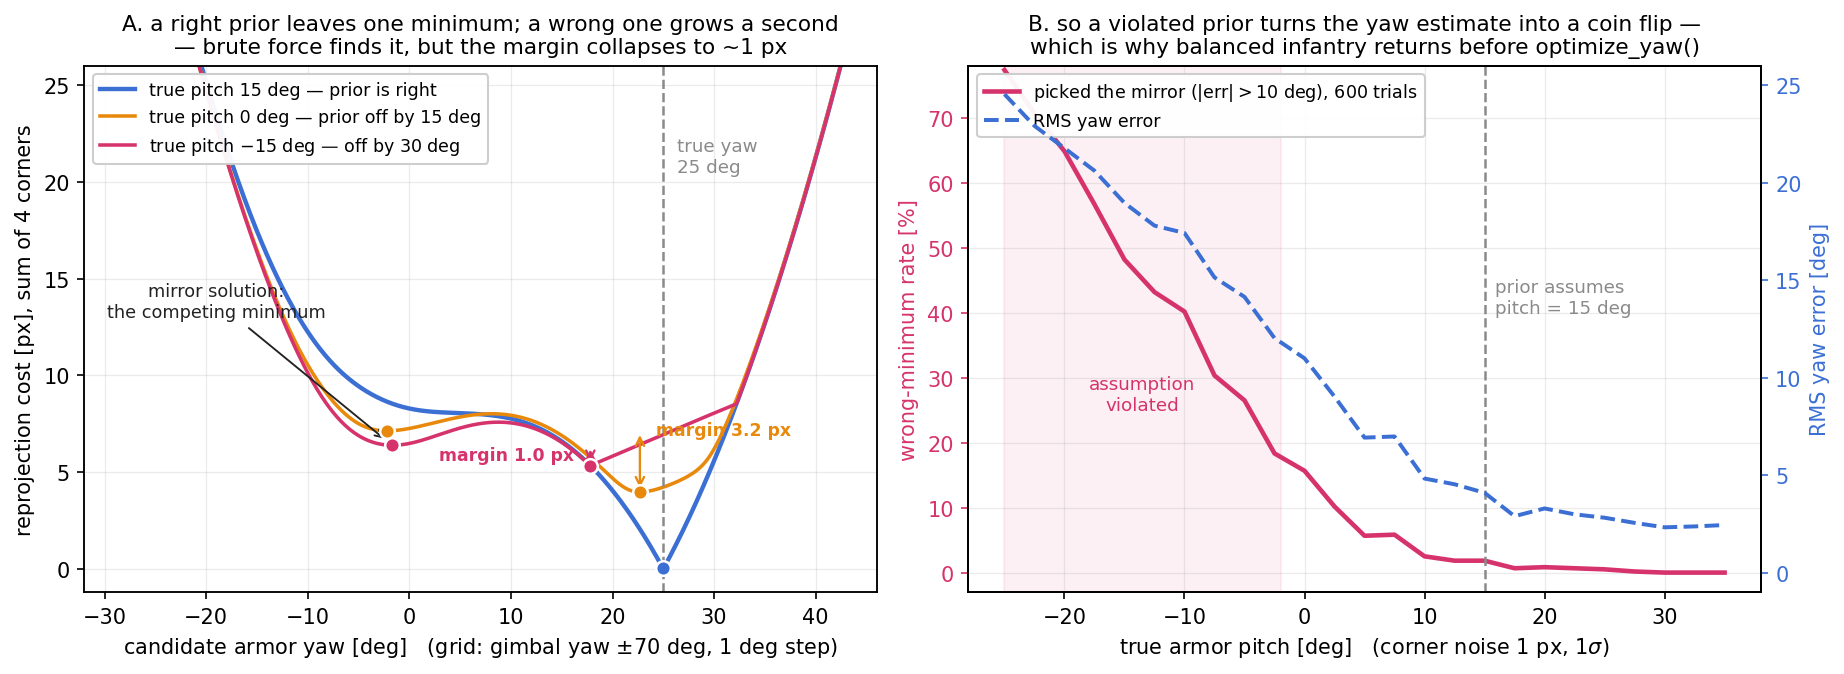
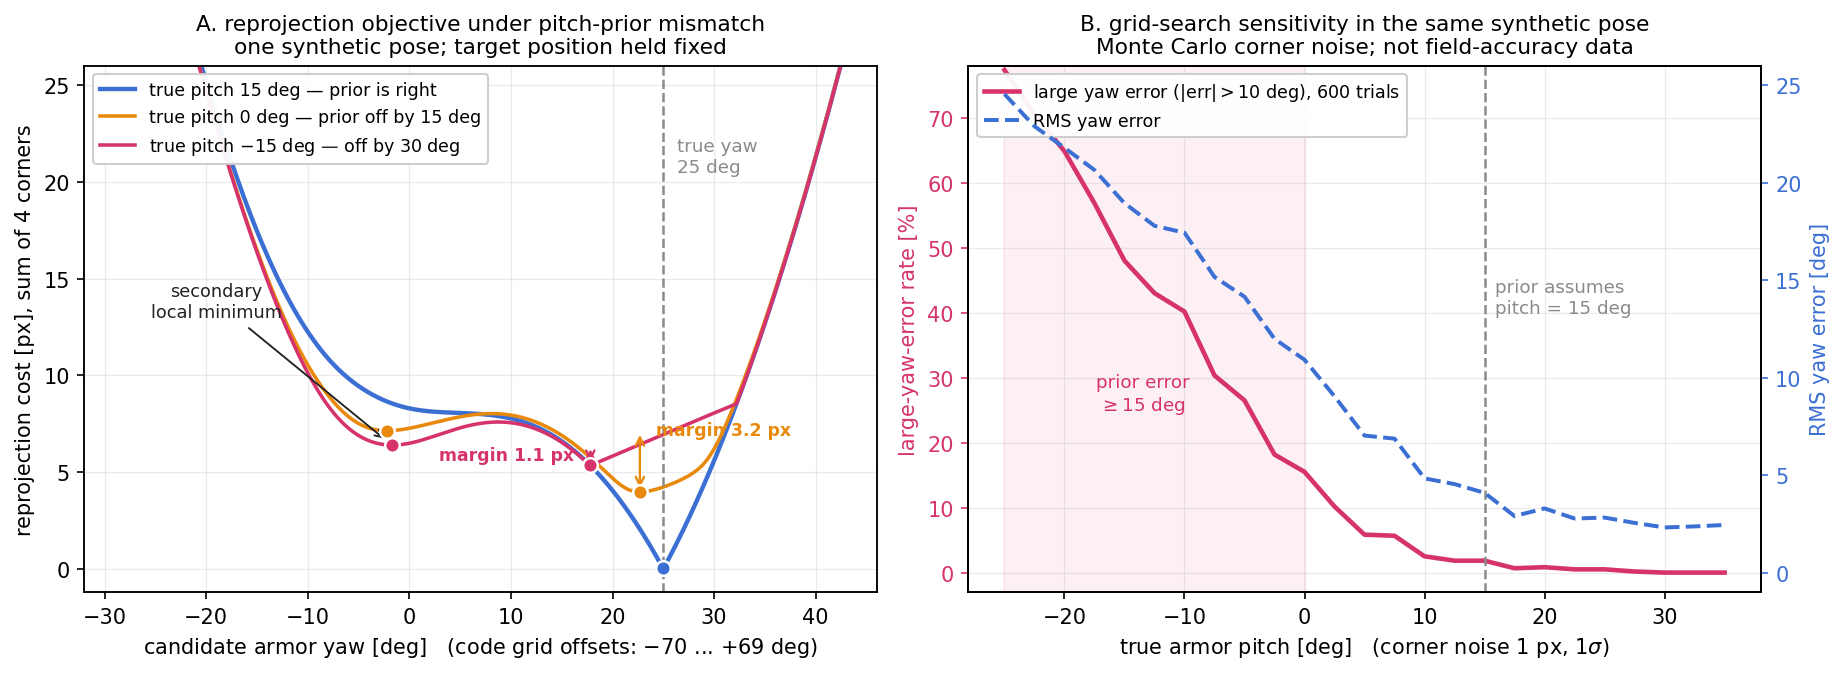
style(projects): 校准 sp_vision 源码与证据边界

diff --git a/examples/projects/proj_sp_yaw_optimize.py b/examples/projects/proj_sp_yaw_optimize.py
@@ -1,5 +1,5 @@
-# Reproduces sp_vision_25's optimize_yaw() search and measures what the code
-# comment "平衡不做yaw优化，因为pitch假设不成立" actually costs.
+# Mirrors the core grid search in sp_vision_25's optimize_yaw() for one
+# synthetic pose, then illustrates its sensitivity to a mismatched pitch prior.
 #
 # Geometry / constants are taken verbatim from the repository:
 #   tasks/auto_aim/solver.cpp:12-25   armor object points (big: 230 mm x 56 mm)
@@ -7,14 +7,13 @@
 #   tasks/auto_aim/solver.cpp:101-125 R_armor2world and the reprojection
 #   tasks/auto_aim/solver.cpp:196-218 SEARCH_RANGE = 140 deg, 1 deg step
 #   tasks/auto_aim/solver.cpp:259     cost = sum of the 4 corner L2 distances
-# Intrinsics and t_camera2gimbal come from configs/standard4.yaml.
-# R_camera2gimbal is idealised to the exact axis permutation that the calibrated
-# matrix in that YAML sits within ~2 deg of.
+# Intrinsics, distortion, and camera-to-gimbal extrinsics come from
+# configs/standard4.yaml. The target pose and corner-noise model are synthetic.
+# Position is held fixed while the yaw cost is evaluated, so this is not an
+# end-to-end reproduction of solvePnP, tracking, or field accuracy.
 #
-# Finding: with the correct pitch prior the cost has ONE minimum; as the prior
-# is violated a second, mirror-image minimum grows until the two are within a
-# pixel of each other, and corner noise starts picking the wrong one. That is
-# the quantitative content of the balanced-infantry early return.
+# In this chosen geometry, increasing pitch-prior mismatch introduces a second
+# local minimum and raises the chance of a large yaw error under corner noise.
 #
 # Generates chapters/6.Projects/images/proj-sp-yaw-optimize.png
 import cv2
@@ -23,7 +22,7 @@ import matplotlib.pyplot as plt
 import numpy as np
 
 BLUE, MAGENTA, GRAY = "#3B6FD4", "#D6336C", "#8A8A8A"
-GREEN, ORANGE, INK = "#2F9E44", "#E8890C", "#222222"
+ORANGE, INK = "#E8890C", "#222222"
 mpl.rcParams.update({"font.size": 10.0, "axes.linewidth": 0.9})
 
 DEG = np.pi / 180.0
@@ -43,7 +42,11 @@ K = np.array([[1851.7070167840545, 0, 721.12585328714192],
 DIST = np.array([-0.093662536083526302, 0.18945726820633155,
                  -0.00040424349861928674, -0.0040568403852123142, 0.0])
 
-R_CAM2GIM = np.array([[0.0, 0.0, 1.0], [-1.0, 0.0, 0.0], [0.0, -1.0, 0.0]])
+R_CAM2GIM = np.array([
+    [0.02823004230930648, -0.014076983590428133, 0.99950232778328707],
+    [-0.99954530259354468, -0.010995644138609872, 0.028076393521179785],
+    [0.010594940981141165, -0.99984045444409364, -0.014380990321749998],
+])
 T_HANDEYE = np.array([0.045517325957791413, 0.10544338092767802, 0.034649710880185793])
 
 SEARCH_RANGE = 140          # solver.cpp:200
@@ -52,8 +55,8 @@ PIX_NOISE = 1.0             # px, 1-sigma per corner coordinate
 TRIALS = 600
 YAW_TRUE = 25 * DEG
 
-# field-like pose: 4 m, 12 deg off the optical axis, 0.25 m above the gimbal,
-# gimbal itself yawed 10 deg. Deliberately NOT head-on -- see the note below.
+# Chosen synthetic pose: 4 m away, 12 deg off the optical axis, 0.25 m above
+# the gimbal, with the gimbal yawed by 10 deg.
 DIST_M, AZIM, HEIGHT, GIMBAL_YAW = 4.0, 12 * DEG, 0.25, 10 * DEG
 XYZ = np.array([DIST_M * np.cos(AZIM), DIST_M * np.sin(AZIM), HEIGHT])
 R_G2W = np.array([[np.cos(GIMBAL_YAW), -np.sin(GIMBAL_YAW), 0],
@@ -122,15 +125,15 @@ for p_deg, col, lw, lab in [(15, BLUE, 2.1, "true pitch 15 deg — prior is righ
 axA.axvline(YAW_TRUE / DEG, color=GRAY, ls="--", lw=1.2)
 axA.text(YAW_TRUE / DEG + 1.4, 20.5, "true yaw\n25 deg", color=GRAY,
          fontsize=8.8, linespacing=1.2)
-axA.annotate("mirror solution:\nthe competing minimum", xy=(-2.2, 6.6), xytext=(-19, 13.0),
+axA.annotate("secondary\nlocal minimum", xy=(-2.2, 6.6), xytext=(-19, 13.0),
              color=INK, fontsize=8.5, linespacing=1.25, ha="center",
              arrowprops=dict(arrowstyle="->", color=INK, lw=0.9))
 axA.set_ylim(-1.2, 26)
 axA.set_xlim(-32, 46)
-axA.set_xlabel("candidate armor yaw [deg]   (grid: gimbal yaw $\\pm$70 deg, 1 deg step)")
+axA.set_xlabel("candidate armor yaw [deg]   (code grid offsets: $-$70 ... +69 deg)")
 axA.set_ylabel("reprojection cost [px], sum of 4 corners")
-axA.set_title("A. a right prior leaves one minimum; a wrong one grows a second\n"
-              "— brute force finds it, but the margin collapses to ~1 px", fontsize=10.4)
+axA.set_title("A. reprojection objective under pitch-prior mismatch\n"
+              "one synthetic pose; target position held fixed", fontsize=10.4)
 axA.legend(fontsize=8.4, loc="upper left", framealpha=0.95)
 axA.grid(alpha=0.25, lw=0.6)
 
@@ -146,8 +149,8 @@ for p in pitch_scan:
     rms.append(np.sqrt(np.mean(err ** 2)))
 
 axB.plot(pitch_scan, flip, "-", color=MAGENTA, lw=2.2,
-         label=f"picked the mirror ($|$err$|>$10 deg), {TRIALS} trials")
-axB.set_ylabel("wrong-minimum rate [%]", color=MAGENTA)
+         label=f"large yaw error ($|$err$|>$10 deg), {TRIALS} trials")
+axB.set_ylabel("large-yaw-error rate [%]", color=MAGENTA)
 axB.tick_params(axis="y", colors=MAGENTA)
 axB.set_ylim(-3, 78)
 
@@ -159,12 +162,12 @@ axB2.set_ylim(-1, 26)
 
 axB.axvline(15, color=GRAY, ls="--", lw=1.2)
 axB.text(15.9, 40, "prior assumes\npitch = 15 deg", color=GRAY, fontsize=8.8, linespacing=1.2)
-axB.axvspan(-25, -2, color=MAGENTA, alpha=0.07)
-axB.text(-13.5, 25, "assumption\nviolated", color=MAGENTA, fontsize=8.8, ha="center",
+axB.axvspan(-25, 0, color=MAGENTA, alpha=0.07)
+axB.text(-13.5, 25, "prior error\n$\\geq$15 deg", color=MAGENTA, fontsize=8.8, ha="center",
          linespacing=1.2)
 axB.set_xlabel(f"true armor pitch [deg]   (corner noise {PIX_NOISE:.0f} px, 1$\\sigma$)")
-axB.set_title("B. so a violated prior turns the yaw estimate into a coin flip —\n"
-              "which is why balanced infantry returns before optimize_yaw()", fontsize=10.4)
+axB.set_title("B. grid-search sensitivity in the same synthetic pose\n"
+              "Monte Carlo corner noise; not field-accuracy data", fontsize=10.4)
 h1, l1 = axB.get_legend_handles_labels()
 h2, l2 = axB2.get_legend_handles_labels()
 axB.legend(h1 + h2, l1 + l2, fontsize=8.4, loc="upper left", framealpha=0.95)
@@ -176,13 +179,11 @@ fig.savefig(out, dpi=150, bbox_inches="tight")
 print("wrote", out)
 
 # --- numbers quoted in the prose -----------------------------------------
-print("\npitch_true  wrong-min%%   RMS err [deg]   (noise %.1f px, %d trials)"
+print("\npitch_true  large-err%%   RMS err [deg]   (noise %.1f px, %d trials)"
       % (PIX_NOISE, TRIALS))
 for p in (15, 5, 0, -10, -15):
-    m0 = reproject(YAW_TRUE, p * DEG)
-    meas = m0[None, :, :] + rng.normal(0.0, PIX_NOISE, (TRIALS, 4, 2))
-    err = (search_batch(meas) - YAW_TRUE) / DEG
-    print(f"{p:8d}  {100*np.mean(np.abs(err)>10):9.1f}  {np.sqrt(np.mean(err**2)):12.1f}")
+    i = int(np.flatnonzero(np.isclose(pitch_scan, p))[0])
+    print(f"{p:8d}  {flip[i]:9.1f}  {rms[i]:12.1f}")
 
 print("\nnoise-free local minima of the cost:")
 for p in (15, 0, -15):
